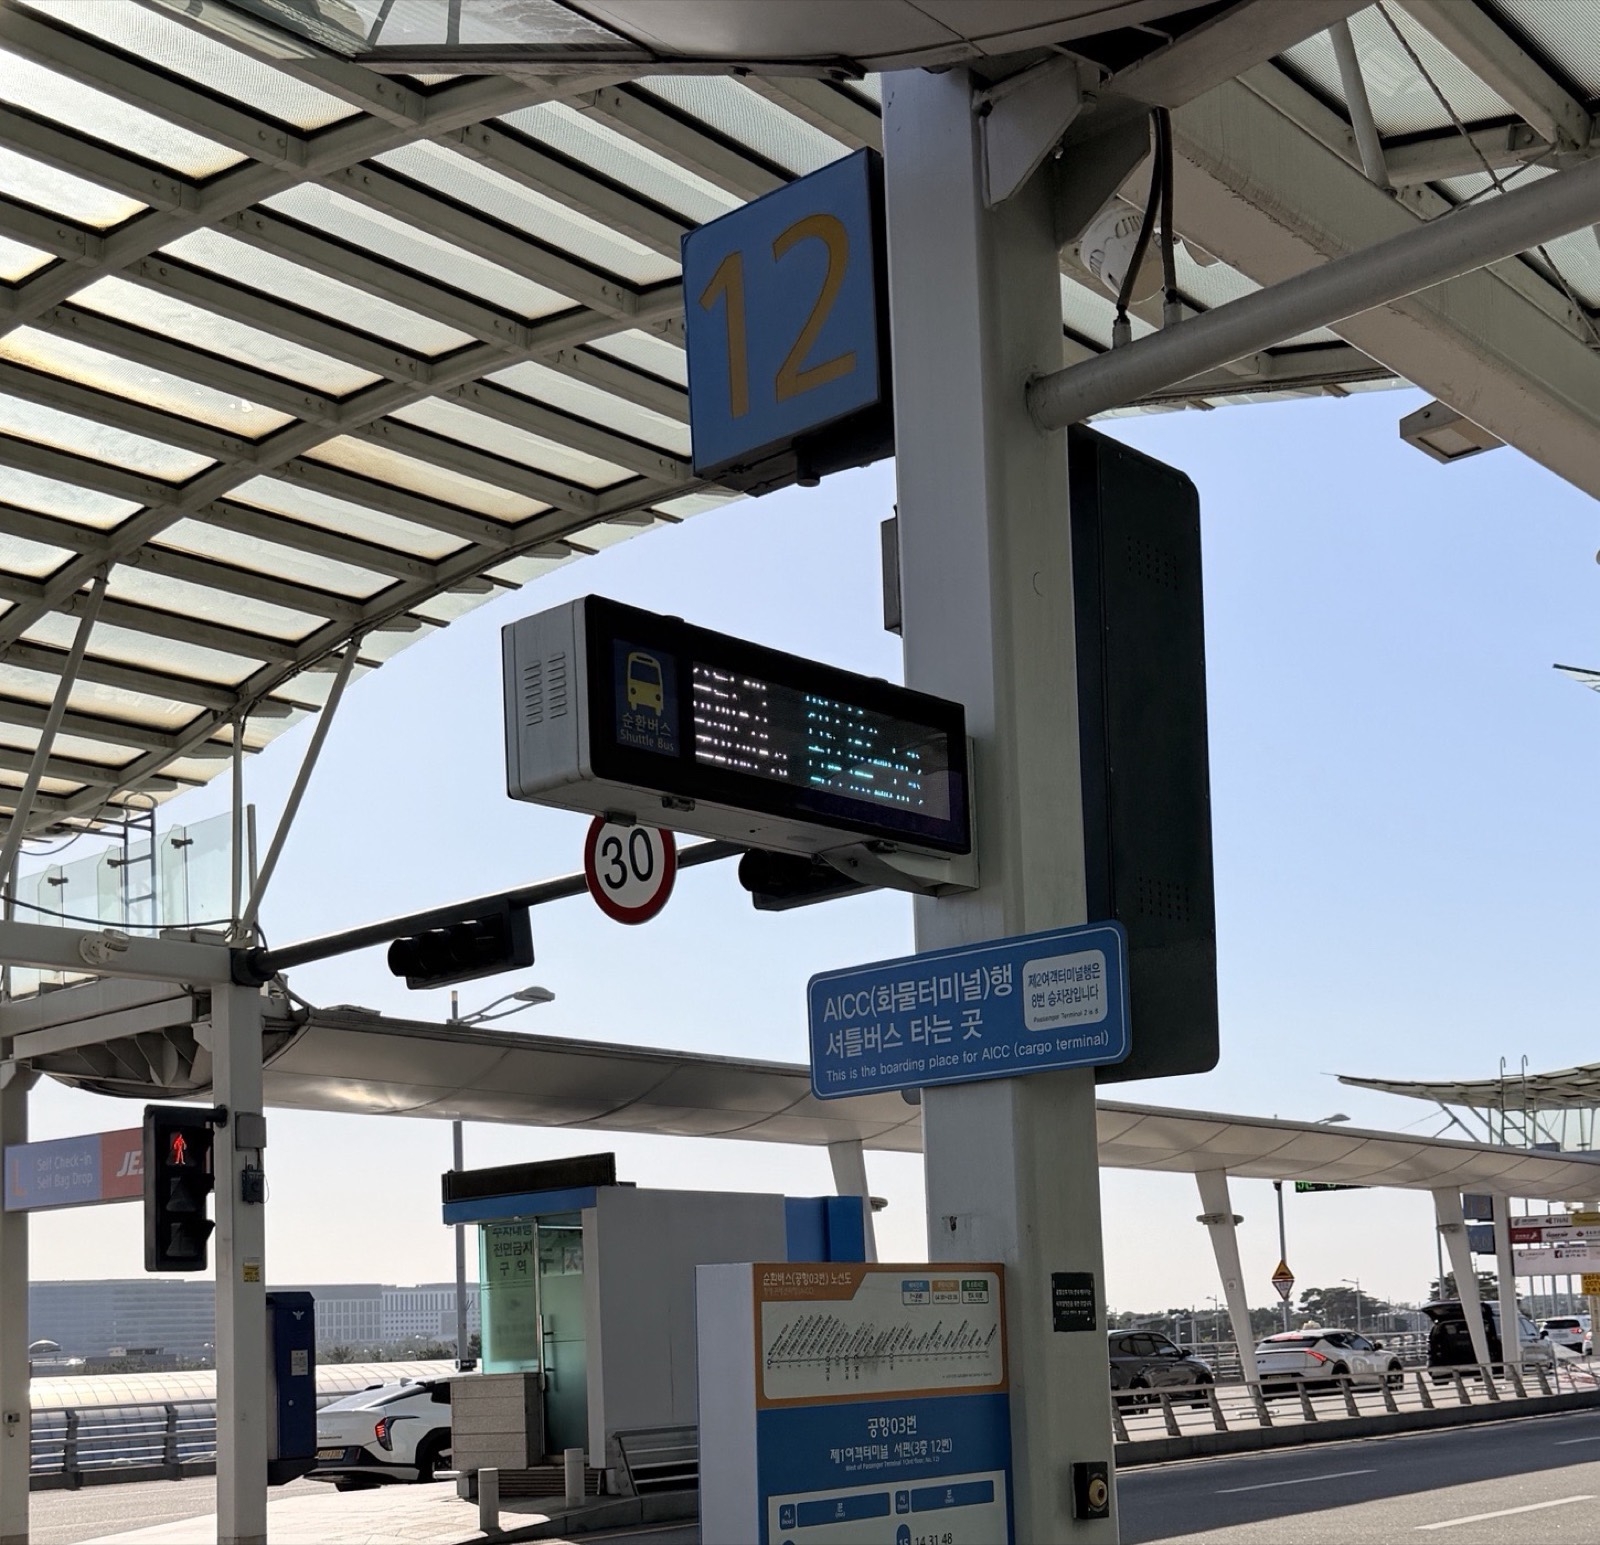
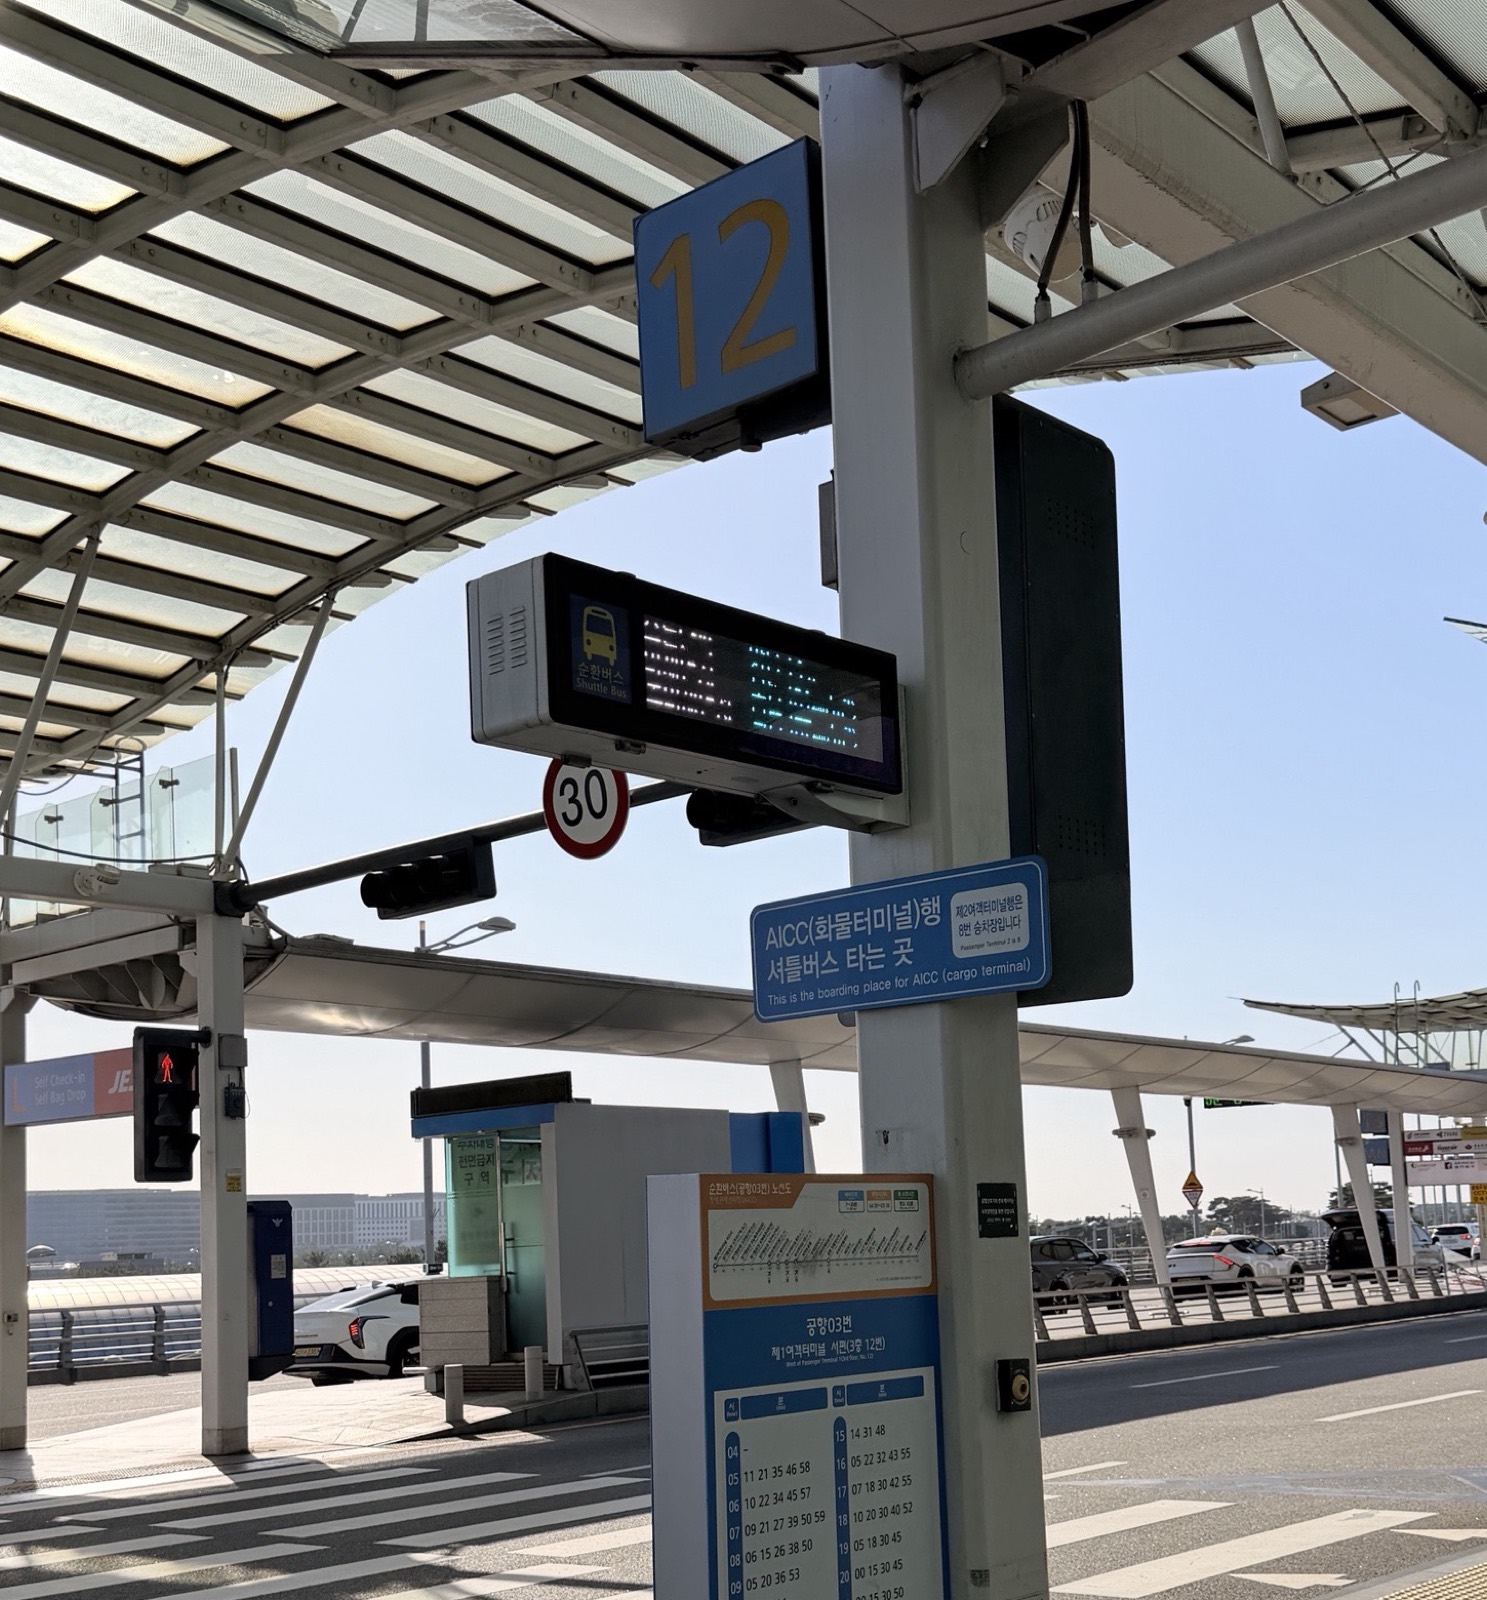
가이드: T1 정류장 사진 노선표 더 보이게 크롭 하단 연장 (11-11 클라라)

diff --git a/index.html b/index.html
@@ -273,7 +273,7 @@ footer .fm{font-family:var(--mono);letter-spacing:2px;color:var(--ink2);font-siz
       <div class="rt-time" data-i18n="s.t1.time"><table class="bt"><tr><td class="lbl">Gate</td><th>3</th><th>12</th></tr><tr><td class="lbl">🕒 First bus</td><td>05:08 a.m.</td><td>05:10 a.m.</td></tr><tr><td class="lbl">🕒 Last bus</td><td>00:30 a.m.</td><td>00:32 a.m.</td></tr></table><div class="foot">Runs every 7–20 min. (as of Jul 2026)</div></div>
     </div>
     <div class="photo stack">
-      <img src="assets/images/stop-t1-gate12.jpg?v=2" alt="T1 3F Gate 12 — the stop for circulation bus No.03 (bound for AICC)" loading="lazy" decoding="async">
+      <img src="assets/images/stop-t1-gate12.jpg?v=3" alt="T1 3F Gate 12 — the stop for circulation bus No.03 (bound for AICC)" loading="lazy" decoding="async">
       <div class="cap" data-i18n="cap.t1stop">T1, 3F GATE 12 — THE STOP FOR BUS NO.03 (BOUND FOR AICC) LOOKS LIKE THIS</div>
     </div>
     <div class="note warm" data-i18n="note.walk">🧳 Walking from T1 is possible (~15 min), but not recommended with luggage.</div>

diff --git a/long.html b/long.html
@@ -358,7 +358,7 @@ footer .fm{font-family:var(--mono);letter-spacing:2px;color:var(--ink);font-weig
       <div class="rt-time" data-i18n="s.t1.time"><table class="bt"><tr><td class="lbl">Gate</td><th>3</th><th>12</th></tr><tr><td class="lbl">🕒 First bus</td><td>05:08 a.m.</td><td>05:10 a.m.</td></tr><tr><td class="lbl">🕒 Last bus</td><td>00:30 a.m.</td><td>00:32 a.m.</td></tr></table><div class="foot">Runs every 7–20 min. (as of Jul 2026)</div></div>
     </div>
     <div class="photo stack">
-      <img src="assets/images/stop-t1-gate12.jpg?v=2" alt="T1 3F Gate 12 — the stop for circulation bus No.03 (bound for AICC)" loading="lazy" decoding="async">
+      <img src="assets/images/stop-t1-gate12.jpg?v=3" alt="T1 3F Gate 12 — the stop for circulation bus No.03 (bound for AICC)" loading="lazy" decoding="async">
       <div class="cap" data-i18n="cap.t1stop">T1, 3F GATE 12 — THE STOP FOR BUS NO.03 (BOUND FOR AICC) LOOKS LIKE THIS</div>
     </div>
     <div class="note warm" data-i18n="note.walk">🧳 Walking from T1 is possible (~15 min), but not recommended with luggage.</div>
